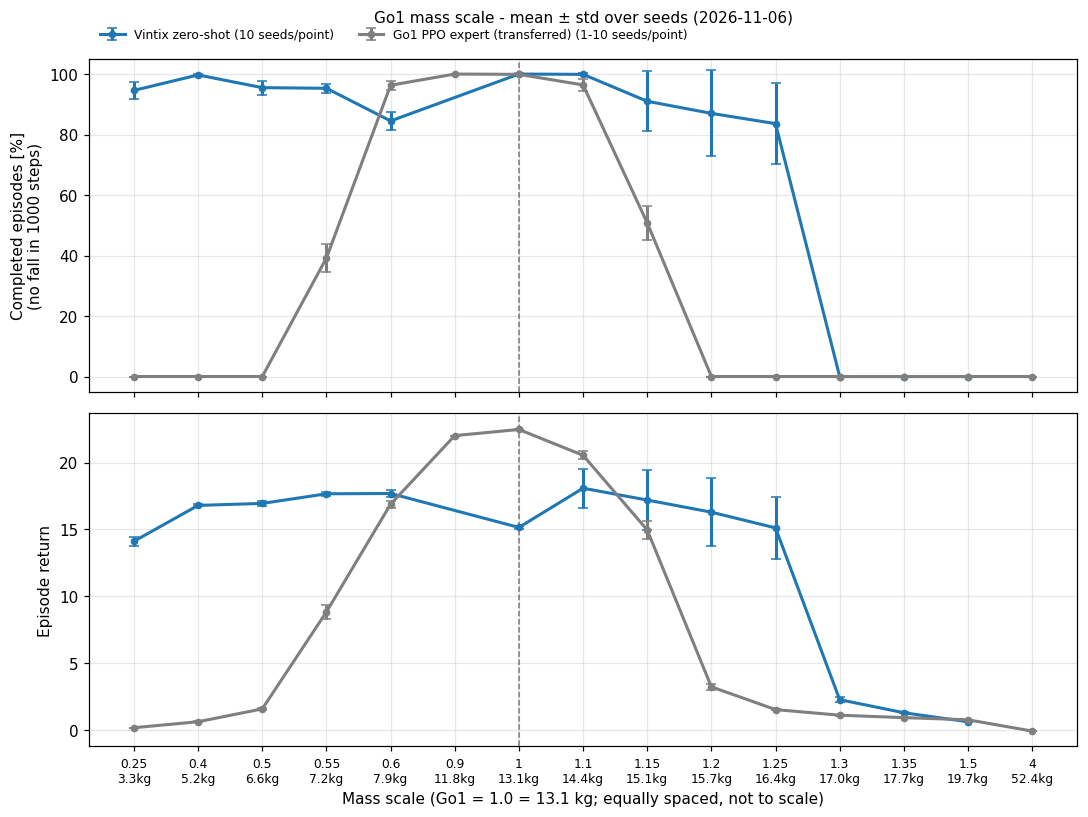
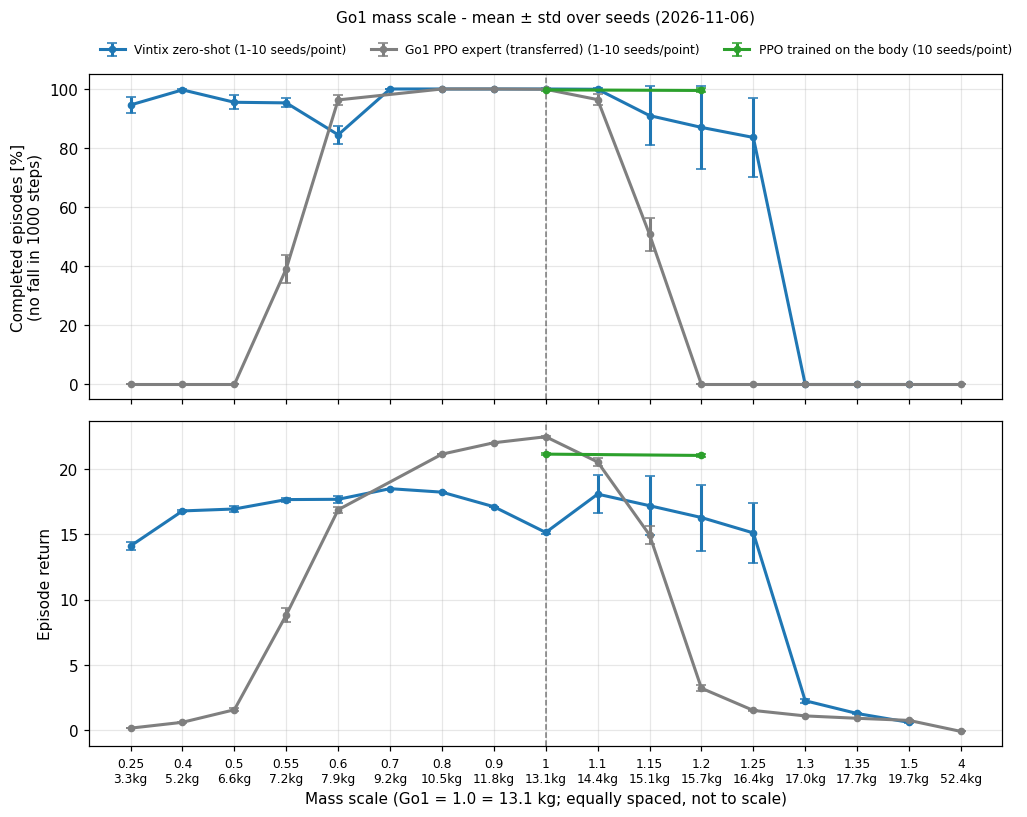
go1_body_scale_zeroshot: PPO trained on the 1.2x-mass body walks 99.5% (as on 1.0x), so the expert/Vintix drop at 1.2x is a policy limit, not the body; pre-register 1.25/1.3x PPO prediction; legend fix (autopilot tick)

Changed region(s): [[0.0, 0.0, 0.9971, 1.0], [0.1558, 0.612, 0.2804, 0.6426], [0.1246, 0.6426, 0.1558, 0.6732]]

diff --git a/vintix_go2/go1_body_scale_zeroshot/make_figures.py b/vintix_go2/go1_body_scale_zeroshot/make_figures.py
@@ -90,8 +90,8 @@ def plot_axis(data, axis: str, out: Path) -> Path:
     else:
         ax_r.set_xticklabels([f"{t:g}\n{GO1_THIGH_LENGTH_M * t * 100:.0f}cm" for t in all_scales], fontsize=8)
         ax_r.set_xlabel("Size scale (Go1 = 1.0 = thigh 21 cm, mass fixed; equally spaced, not to scale)")
-    ax_c.legend(loc="lower left", bbox_to_anchor=(0.0, 1.02), ncol=2, fontsize=8, frameon=False)
-    ax_c.set_title(f"Go1 {axis} scale - mean ± std over seeds ({time.strftime('%Y-%m-%d')})", fontsize=10, pad=24)
+    ax_c.legend(loc="lower left", bbox_to_anchor=(0.0, 1.02), ncol=3, fontsize=8, frameon=False)
+    ax_c.set_title(f"Go1 {axis} scale - mean ± std over seeds ({time.strftime('%Y-%m-%d')})", fontsize=10, pad=34)
     fig.tight_layout()
     out.parent.mkdir(parents=True, exist_ok=True)
     fig.savefig(out, dpi=110, bbox_inches="tight")
